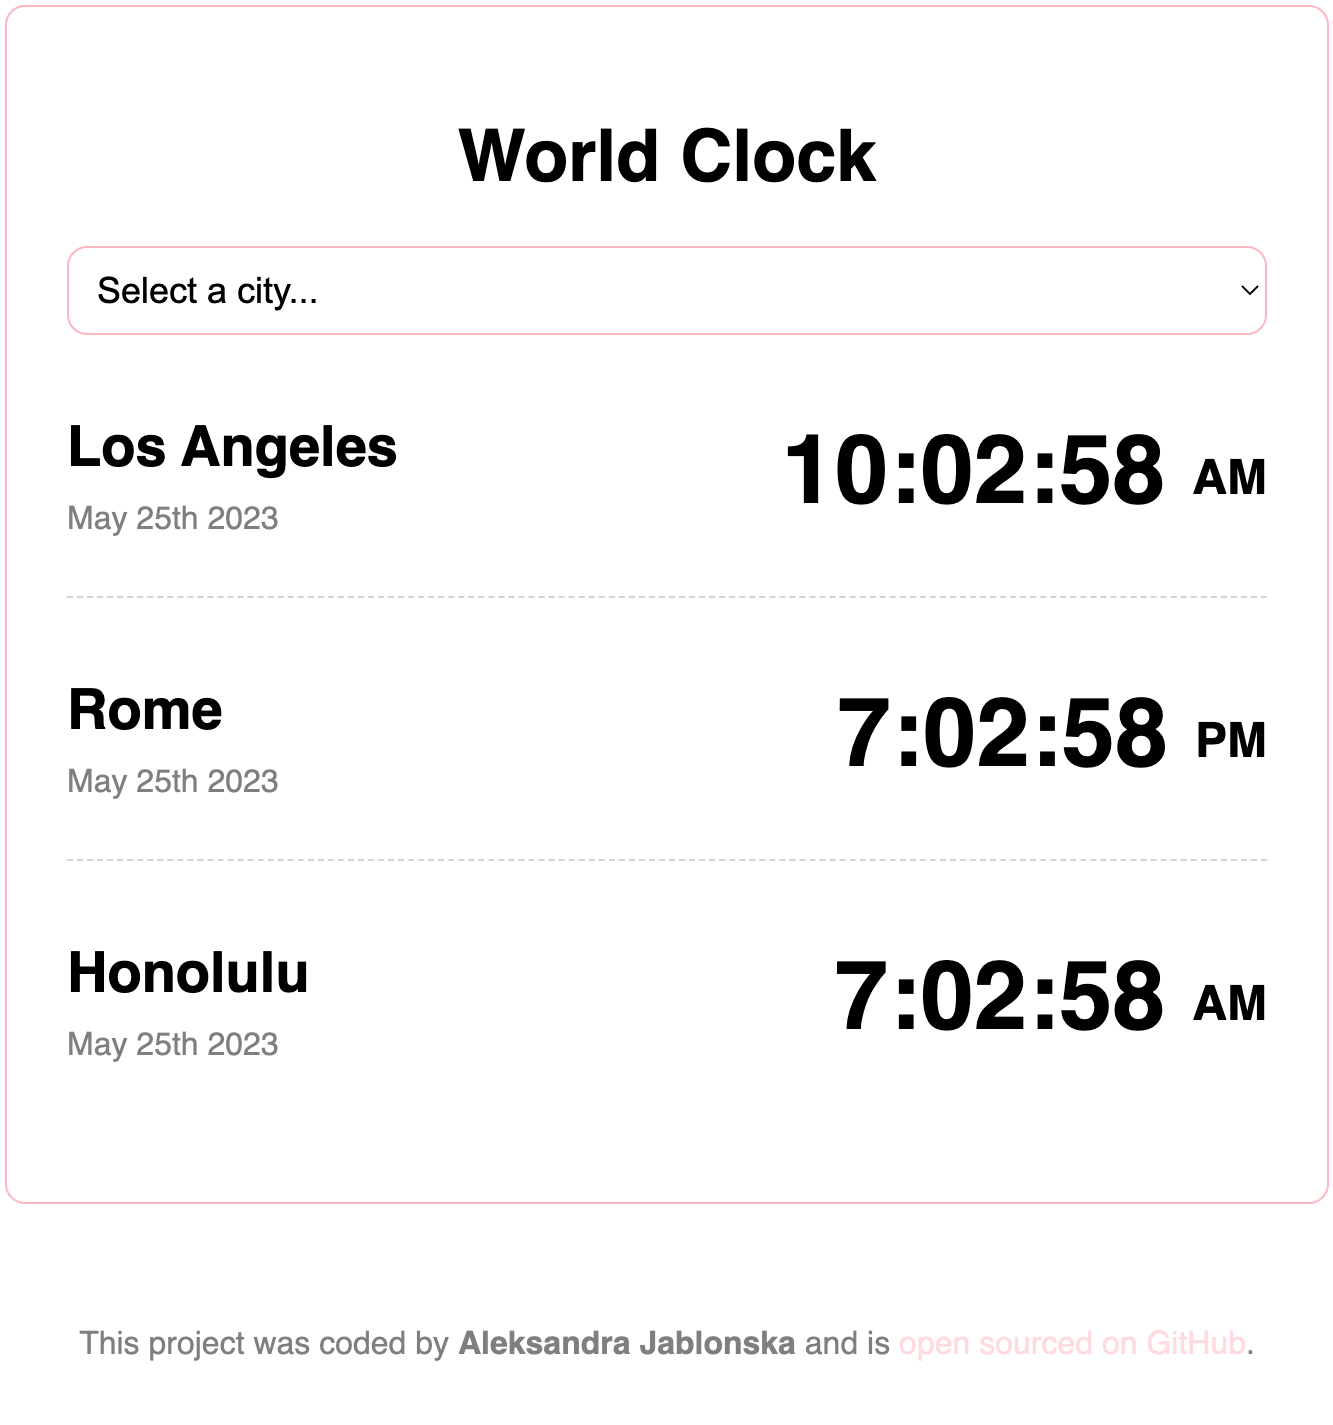
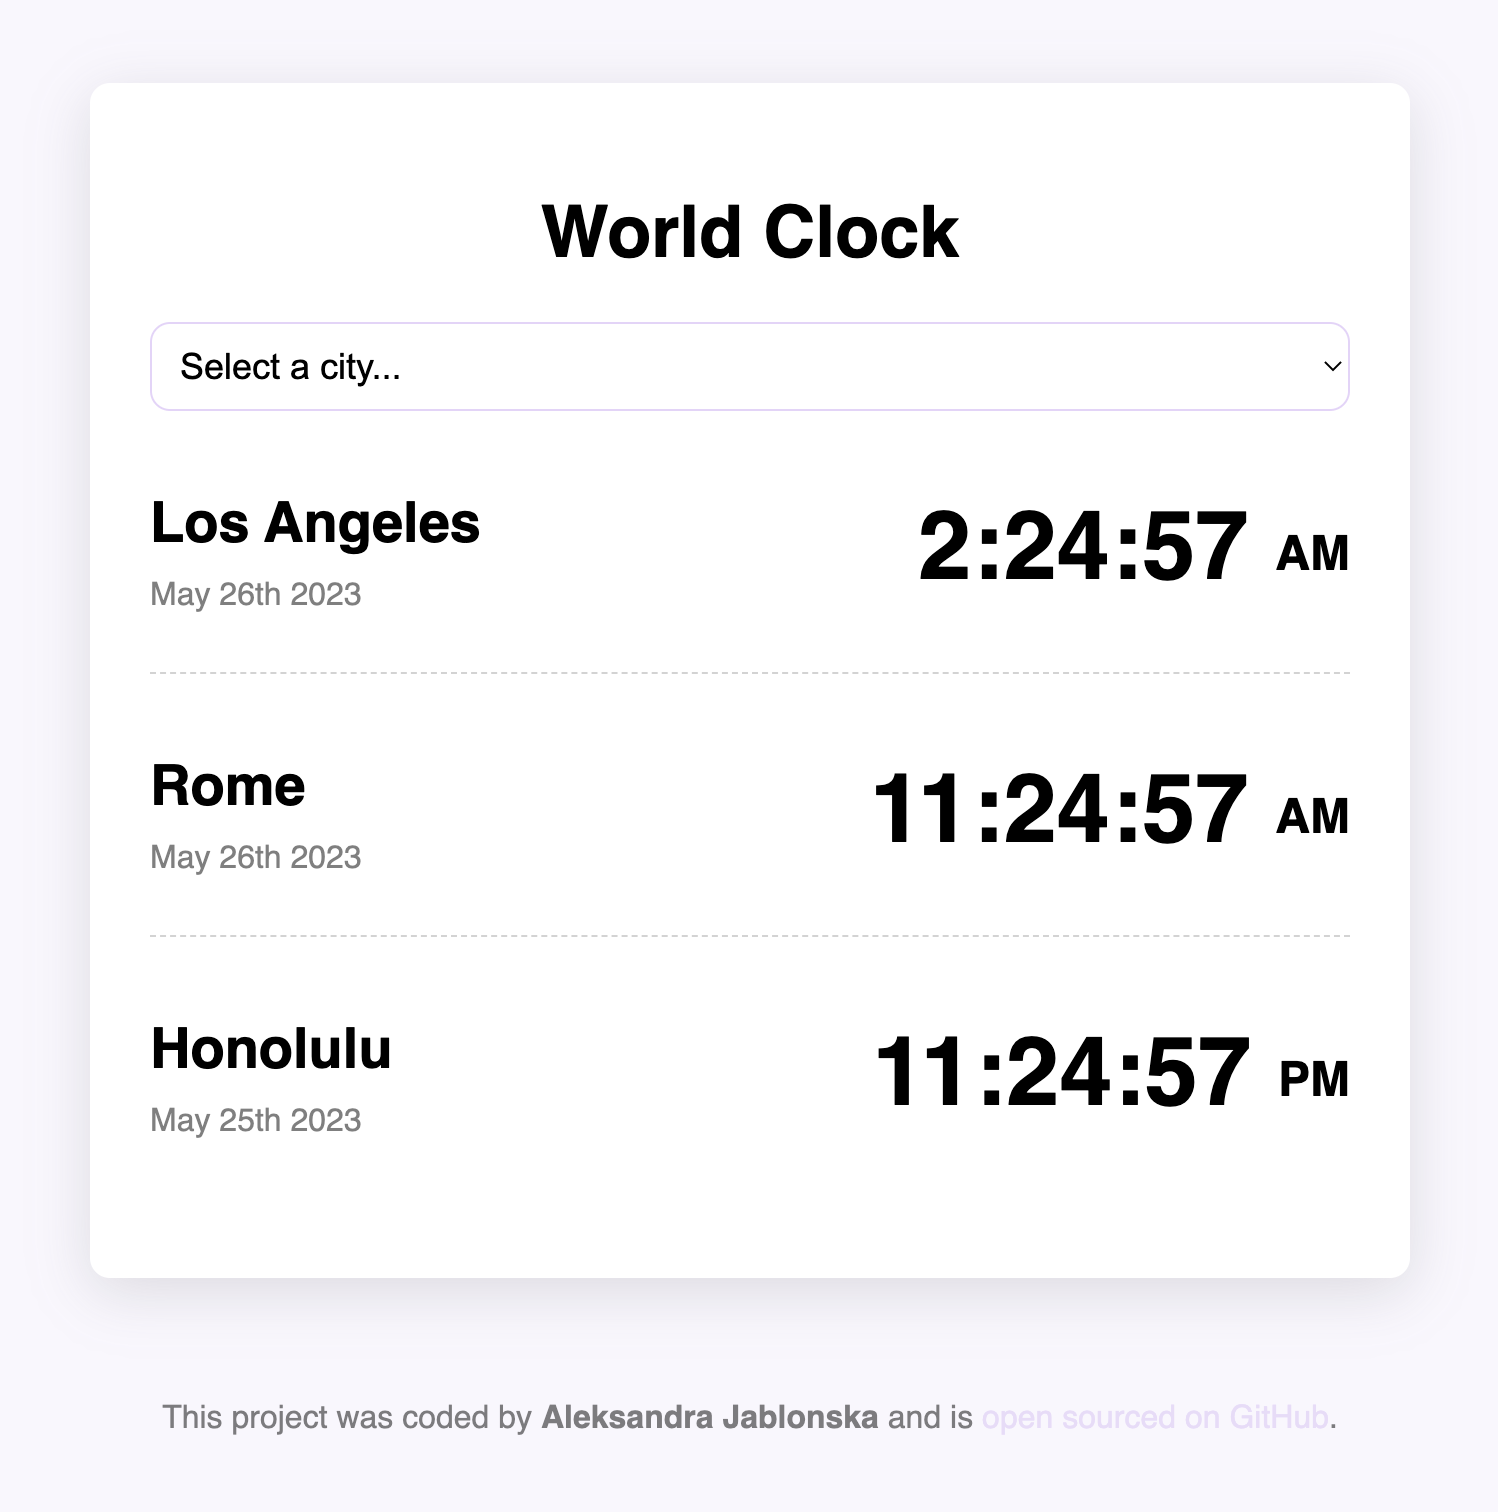
Updated project content

diff --git a/index.html b/index.html
@@ -44,11 +44,31 @@
       <div class="row mb-5">
         <div class="col d-none d-lg-block">
           <img
-            src="images/world-clock-app.png"
+            src="images/weather-app.png"
             class="img-fluid"
-            alt="world clock app"
+            alt="weather app"
           />
         </div>
+        <div class="col">
+          <div class="project-description">
+            <h2 class="mb-5">Weather App</h2>
+            <p class="mb-5 text-muted">
+              temporary text temporary text temporary text temporary text
+              temporary text temporary text temporary text temporary text
+              temporary text temporary text temporary text temporary text
+              temporary text temporary text temporary text
+            </p>
+            <a
+              href="https://stupendous-bubblegum-e0f501.netlify.app/"
+              target="_blank"
+              class="btn btn-branding-outline"
+              >Launch project</a
+            >
+          </div>
+        </div>
+      </div>
+
+      <div class="row mb-5">
         <div class="col">
           <div class="project-description">
             <h2 class="mb-5">World Clock App</h2>
@@ -66,30 +86,10 @@
             >
           </div>
         </div>
-      </div>
-
-      <div class="row mb-5">
-        <div class="col">
-          <div class="project-description">
-            <h2 class="mb-5">Project 2</h2>
-            <p class="mb-5 text-muted">
-              temporary text temporary text temporary text temporary text
-              temporary text temporary text temporary text temporary text
-              temporary text temporary text temporary text temporary text
-              temporary text temporary text temporary text
-            </p>
-            <a
-              href="https://world-clock-myproject.netlify.app/"
-              target="_blank"
-              class="btn btn-branding-outline"
-              >Launch project</a
-            >
-          </div>
-        </div>
         <div class="col d-none d-lg-block">
           <img
             src="images/world-clock-app.png"
-            class="img-fluid"
+            class="img-fluid rounded"
             alt="world clock app"
           />
         </div>
@@ -97,11 +97,7 @@
 
       <div class="row">
         <div class="col d-none d-lg-block">
-          <img
-            src="images/world-clock-app.png"
-            class="img-fluid"
-            alt="world clock app"
-          />
+          <img src="" class="img-fluid rounded" alt="project 3" />
         </div>
         <div class="col">
           <div class="project-description">
@@ -112,10 +108,7 @@
               temporary text temporary text temporary text temporary text
               temporary text temporary text temporary text
             </p>
-            <a
-              href="https://world-clock-myproject.netlify.app/"
-              target="_blank"
-              class="btn btn-branding-outline"
+            <a href="#" target="_blank" class="btn btn-branding-outline"
               >Launch project</a
             >
           </div>

diff --git a/styles/portfolio.css b/styles/portfolio.css
@@ -67,6 +67,7 @@ p {
   color: var(--branding-color);
   background: white;
   border: 1px solid var(--branding-color);
+  transition: all 200ms ease-in-out;
 }
 
 .btn-branding-outline {
@@ -77,6 +78,12 @@ p {
   font-size: 18px;
   line-height: 27px;
   padding: 15px 30px;
+}
+
+.btn-branding-outline:hover {
+  color: white;
+  background: var(--branding-color);
+  transition: all 200ms ease-in-out;
 }
 
 .project-description {
